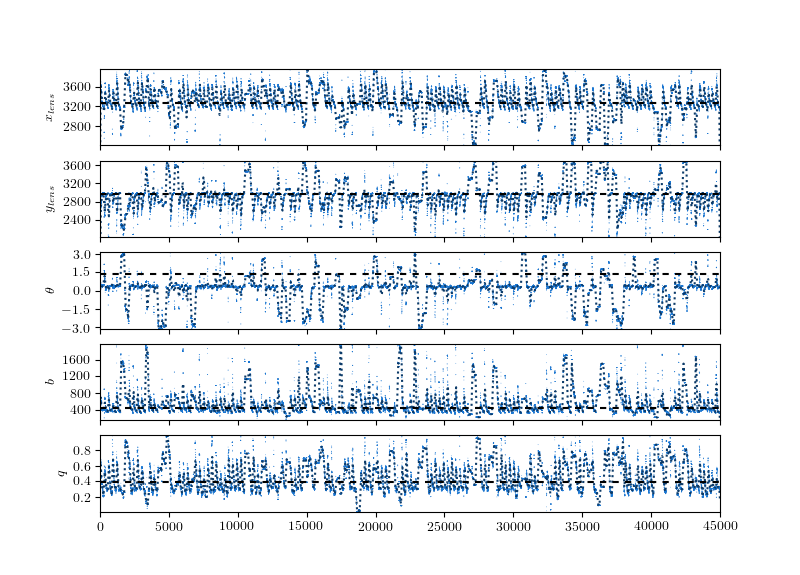
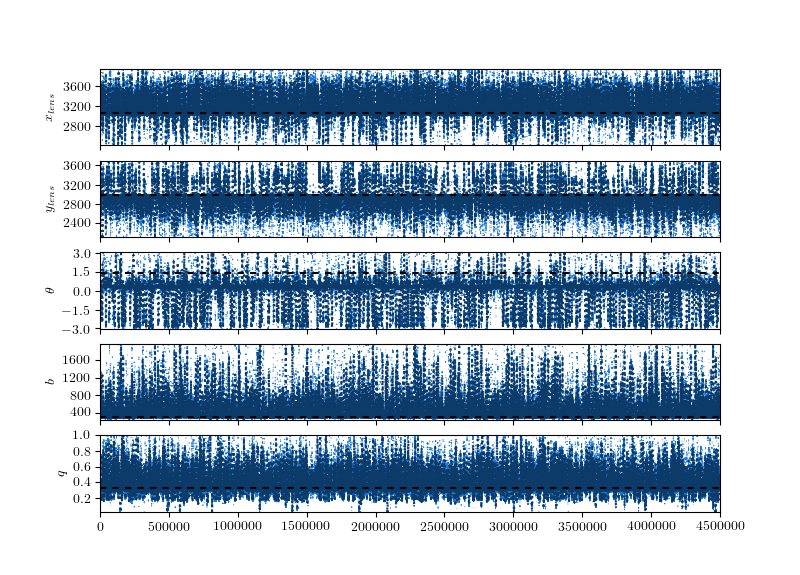
Scale einstein radius to account for redshift

diff --git a/src/mass_model.py b/src/mass_model.py
@@ -1,19 +1,4 @@
 import numpy as np
-from astropy.cosmology import LambdaCDM
-
-
-def scale_einstein_radius(b, zl, zs, H0=70, Om0=0.3, Ode0=0.7):
-    if zl is None or zs is None:
-        return b
-
-    cosmo = LambdaCDM(H0=H0, Om0=Om0, Ode0=Ode0)
-    d_ls = cosmo.angular_diameter_distance_z1z2(zl, zs)
-    d_s = cosmo.angular_diameter_distance_z1z2(0, zs)
-    d_l = cosmo.angular_diameter_distance_z1z2(0, zl)
-
-    d = d_ls / d_s
-
-    return b / d.value
 
 
 def align_coords(x_in, y_in, pars, revert=False):
@@ -34,12 +19,12 @@ def align_coords(x_in, y_in, pars, revert=False):
     return x, y
 
 
-def deflections(x_img, y_img, zl, zs, pars):
+def deflections(x_img, y_img, d, pars):
     """ Calculate deflection using a mass model. Returns the calculated source positions. """
     xlens, ylens = pars[0], pars[1]
 
     x, y = align_coords(x_img, y_img, pars, revert=False)  # Image positions rotated to lens plane coordinates (wrt Xlens at (0,0))
-    xout, yout = sie_model(x, y, zl, zs, pars)  # Calculated deflection positions in lens plane coordinates
+    xout, yout = sie_model(x, y, d, pars)  # Calculated deflection positions in lens plane coordinates
     x, y = align_coords(xout, yout, pars, revert=True)  # Calculated deflection positions in image plane coordinates (wrt Xlens at (0,0))
 
     x_deflect, y_deflect = x - xlens, y - ylens  # Calculated deflection positions in image plane coordinates (actual pixel positions instead of wrt Xlens)
@@ -47,11 +32,11 @@ def deflections(x_img, y_img, zl, zs, pars):
     return x_deflect, y_deflect
 
 
-def sie_model(x, y, zl, zs, pars):
+def sie_model(x, y, d, pars):
     """ Singular Isothermal Elliptical Mass model for lens. Returns the calculated source positions. """
     xlens, ylens, theta, b, q = pars
 
-    b = scale_einstein_radius(b=b, zl=zl, zs=zs)
+    b = b * d
 
     r = np.sqrt(x ** 2 + y ** 2)
     if q == 1.:
@@ -65,32 +50,32 @@ def sie_model(x, y, zl, zs, pars):
     return xout, yout
 
 
-def pred_positions(x_img, y_img, zl, zs, pars):
+def pred_positions(x_img, y_img, d, pars):
     """ Predict the source positions by calculating the deflection. Returns the diff between img pos and deflections"""
     x, y = x_img.copy(), y_img.copy()
     x0, y0 = x_img.copy(), y_img.copy()
 
-    x_deflect, y_deflect = deflections(x, y, zl, zs, pars)  # Calculated deflection positions in image plane coordinates (pixel positions)
+    x_deflect, y_deflect = deflections(x, y, d, pars)  # Calculated deflection positions in image plane coordinates (pixel positions)
     x_src = x0 - x_deflect  # Calculated source positions in pixels
     y_src = y0 - y_deflect
 
     return x_src, y_src
 
 
-def lnlike(pars, x_img, y_img, zl, zs):
+def lnlike(pars, x_img, y_img, d):
     """ Calculate log-likelihood probability. Minimise the variance in the source position from all images. """
     if isinstance(x_img, dict):
         x_src, y_src = {}, {}
         lnlike_dict = {}
 
         for key in x_img:
-            x_src[key], y_src[key] = pred_positions(x_img[key], y_img[key], zl, zs[key], pars)
+            x_src[key], y_src[key] = pred_positions(x_img[key], y_img[key], d[key], pars)
             lnlike_dict[key] = -0.5 * (x_src[key].var() + y_src[key].var())
 
         return sum(lnlike_dict.values())
 
     else:
-        x_src, y_src = pred_positions(x_img, y_img, zl, zs, pars)
+        x_src, y_src = pred_positions(x_img, y_img, d, pars)
 
         return -0.5 * (x_src.var() + y_src.var())
 
@@ -109,13 +94,13 @@ def lnprior(pars, prior_func=None):
         return prior_func(pars)
 
 
-def lnprob(pars, x_img, y_img, zl, zs, prior_func=None):
+def lnprob(pars, x_img, y_img, d, prior_func=None):
     """ Log-probability is the log-prior + log-likelihood. """
     lp = lnprior(pars, prior_func)
 
     if not np.isfinite(lp):
         return -np.inf
-    return lp + lnlike(pars, x_img, y_img, zl, zs)
+    return lp + lnlike(pars, x_img, y_img, d)
 
 
 # if __name__ == '__main__':

diff --git a/src/get_source_positions.py b/src/get_source_positions.py
@@ -6,9 +6,10 @@ from chainconsumer import ChainConsumer
 from src.mass_model import lnprob
 import matplotlib.pyplot as plt
 from src.image_overplot_contours import plot_image
+from src.dist_ang import scale_einstein_radius
 
 
-def run_mcmc(x_img, y_img, fig_dir, zl=None, zs=None, ndim=5, nwalkers=100, steps=200, prior_func=None, initial_params=None, fits_file=None, img_name=''):
+def run_mcmc(x_img, y_img, fig_dir, d=None, ndim=5, nwalkers=100, steps=200, prior_func=None, initial_params=None, fits_file=None, img_name=''):
 
     # Starting positions for the MCMC walkers sampled from a uniform distribution
     if initial_params is None:
@@ -23,7 +24,7 @@ def run_mcmc(x_img, y_img, fig_dir, zl=None, zs=None, ndim=5, nwalkers=100, step
     p0 = np.transpose(list(initial.values()))
 
     # Run MCMC sampler with emcee
-    sampler = emcee.EnsembleSampler(nwalkers, ndim, lnprob, args=(x_img, y_img, zl, zs, prior_func))
+    sampler = emcee.EnsembleSampler(nwalkers, ndim, lnprob, args=(x_img, y_img, d, prior_func))
     pos, prob, state = sampler.run_mcmc(p0, steps)
 
     # Print chain
@@ -136,31 +137,31 @@ def macs0451():
 
 def macs0451_multiple_sources():
     fig_dir = 'Figures/MACS0451/'
-    ndim, nwalkers = 5, 1500
-    steps = 3000
-    img_name = '_multiple_sources'
+    ndim, nwalkers = 5, 1000
+    steps = 2000
+    img_name = '_multiple_sources2'
     zl = 0.43
 
-    x_img, y_img, zs = {}, {}, {}
+    x_img, y_img, d = {}, {}, {}
     x_img['A'] = np.array([2375.942110, 2378.5, 2379.816610, 2381.299088, 2384, 2385.927991, 2389.555816, 2457.694760, 2450.744242, 2442.833333, 2437.857924, 2433.064587, 2427.166666, 2424.099866, 2418.5, 2416.444081, 2462])
     y_img['A'] = np.array([3038.016677, 3024, 3012.367933, 2999.365293, 2983.5, 2970.435199, 2955.945319, 2737.545077, 2752.305849, 2766.166666, 2782.058508, 2795.293450, 2811.166666, 2823.079067, 2837.5, 2846.943113, 2728])
-    zs['A'] = 2.01
+    d['A'] = scale_einstein_radius(zl=zl, zs=2.01)
 
     x_img['11'] = np.array([3557.178601, 3548.271886, 3541.407488])
     y_img['11'] = np.array([3363.943860, 3375.285957, 3385.515024])
-    zs['11'] = 2.06
+    d['11'] = scale_einstein_radius(zl=zl, zs=2.06)
 
-    # x_img['62'] = np.array([3486.371962])
-    # y_img['62'] = np.array([3069.305065])
-    # zl['62'] = 1.405
-
-    x_img['41'] = np.array([3222.796159, 3227.700108])
-    y_img['41'] = np.array([3550.903781, 3542.180780])
-    zs['41'] = 1.810
-
-    x_img['31'] = np.array([2933.063074, 3393.715824])
-    y_img['31'] = np.array([2943.400421, 3398.196336])
-    zs['31'] = 1.904
+    # # x_img['62'] = np.array([3486.371962])
+    # # y_img['62'] = np.array([3069.305065])
+    # # d['62'] = scale_einstein_radius(zl=zl, zs=1.405)
+    #
+    # x_img['41'] = np.array([3222.796159, 3227.700108])
+    # y_img['41'] = np.array([3550.903781, 3542.180780])
+    # d['41'] = scale_einstein_radius(zl=zl, zs=1.810)
+    #
+    # x_img['31'] = np.array([2933.063074, 3393.715824])
+    # y_img['31'] = np.array([2943.400421, 3398.196336])
+    # d['31'] = scale_einstein_radius(zl=zl, zs=1.904)
 
     # Starting positions for the MCMC walkers sampled from a uniform distribution
     initial = OrderedDict()
@@ -179,7 +180,7 @@ def macs0451_multiple_sources():
 
     fits_file = '/Users/danmuth/PycharmProjects/StrongLensing/data/MACS0451/MACS0451_F110W.fits'
 
-    run_mcmc(x_img, y_img, fig_dir, zl, zs, ndim=ndim, nwalkers=nwalkers, steps=steps, prior_func=lnprior, initial_params=initial, fits_file=fits_file, img_name=img_name)
+    run_mcmc(x_img, y_img, fig_dir, d, ndim=ndim, nwalkers=nwalkers, steps=steps, prior_func=lnprior, initial_params=initial, fits_file=fits_file, img_name=img_name)
 
 
 if __name__ == '__main__':

diff --git a/src/dist_ang.py b/src/dist_ang.py
@@ -1,0 +1,12 @@
+from astropy.cosmology import LambdaCDM
+
+
+def scale_einstein_radius(zl, zs, H0=70, Om0=0.3, Ode0=0.7):
+    cosmo = LambdaCDM(H0=H0, Om0=Om0, Ode0=Ode0)
+    d_ls = cosmo.angular_diameter_distance_z1z2(zl, zs)
+    d_s = cosmo.angular_diameter_distance_z1z2(0, zs)
+    d_l = cosmo.angular_diameter_distance_z1z2(0, zl)
+
+    d = d_ls / d_s
+
+    return d.value
